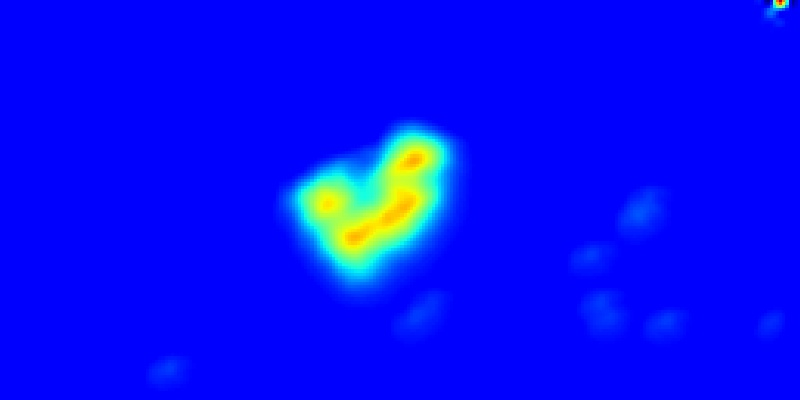
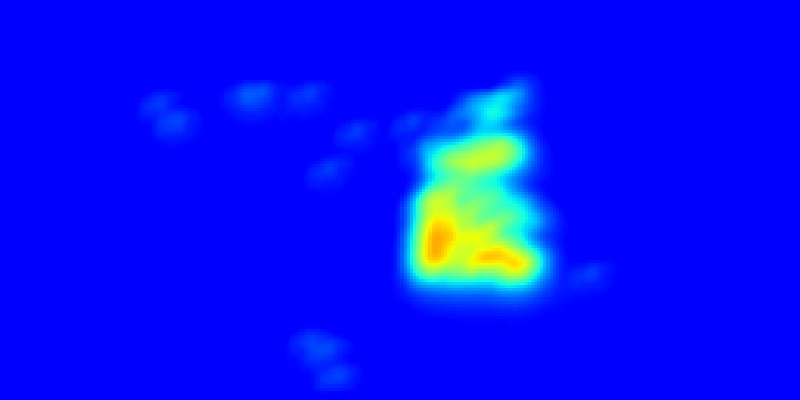
Agrega varios hilos para ejecución desde plotSensores.py
- Agrega hilo para comunicación, calculo de tiempos de exposición y
para calculo de promedios de presión por zonas

diff --git a/sensorFlexibleSQLiteDB/recvSensor1.py b/sensorFlexibleSQLiteDB/recvSensor1.py
@@ -1,13 +1,3 @@
-# -*- coding: utf-8 -*-
-
-# Form implementation generated from reading ui file 'rigidoBotonesConexion.ui'
-#
-# Created by: PyQt5 UI code generator 5.5.1
-#
-# WARNING! All changes made in this file will be lost!
-# para ejecutar el codigo python3 recvSensor1.py 192.168.0.108 10000 192.168.0.107 2233 1
-# Puerto 10000(cabeza), puerto 10001(piernas)
-
 import socket
 import sys
 import binascii
@@ -22,23 +12,15 @@ import tiemposDeExposicion
 import time
 import sqlite3
 from PIL import Image
+
 #ion()
-print( sys.argv[0])
-UDP_IP = sys.argv[1]
-UDP_PORT = int(sys.argv[2])
-
-UDP_IP_CLIENT = sys.argv[3]
-UDP_PORT_CLIENT = int(sys.argv[4])
-
-# Para esta version de la sabana, el sensor tiene dos modulos wifi, por tal razon se almacenan en bases de datos distintas su informacion id=1(cabeza), id=2(piernas)
-idSensor = sys.argv[5]
 
 maxint = 2 ** (struct.Struct('i').size * 8 - 1) - 1
 sys.setrecursionlimit(maxint)
 
 class Ui_MainWindow(object):
-    def __init__(self):
-        print("init")
+    def __init__(self, UDP_IP, UDP_PORT, UDP_IP_CLIENT, UDP_PORT_CLIENT, idSensor):
+        print("init", idSensor)
         self.vectorDatosDistribucionPresion = []
         self.vectorDesencriptado = []
         self.iniciaTramaDeDatos = False
@@ -46,34 +28,42 @@ class Ui_MainWindow(object):
         self.filas = 43;
         matriz = [[0 for x in range(self.columnas)] for x in range(self.filas)] 
         matriz[0][0] = 255
-        #self.cronometro = tiemposDeExposicion.Cronometro()
-        #self.interfazTiempos = interfazTiemposExposicionSensor1.interfazTiemposExposicion()
         self.angle = 0
-        self.contadorCalculaTiemposExposicion = 0
         self.contadorImagenes = 0
-        
-    def socketConnection(self):
-        
-        self.s = socket.socket(socket.AF_INET, socket.SOCK_DGRAM)
-        #self.s.settimeout(0.5)
-        #self.s.setsockopt(socket.IPPROTO_TCP, socket.TCP_NODELAY, 1)
-        #self.s.setsockopt(socket.SOL_SOCKET, socket.SO_REUSEADDR, 1)
+
         self.UDP_IP = UDP_IP
         self.UDP_PORT = UDP_PORT
 
         self.UDP_IP_CLIENT = UDP_IP_CLIENT
         self.UDP_PORT_CLIENT = UDP_PORT_CLIENT
 
+        # Para esta version de la sabana, el sensor tiene dos modulos wifi, por tal razon se almacenan en bases de datos distintas su informacion id=1(cabeza), id=2(piernas)
+        self.idSensor = idSensor  
+        self.conectarSensor()     
+        
+    def socketConnection(self):
+        
+        self.s = socket.socket(socket.AF_INET, socket.SOCK_DGRAM)
+
         print("escuchando",self.UDP_IP, self.UDP_PORT)
         self.s.bind((self.UDP_IP, self.UDP_PORT))
         #self.s.listen(1)
         self.campoSensor1Creado = False
-        #self.sc, self.addr = self.s.accept()
-        for i in range(3):            
-            time.sleep(1)
+
+        self.s.settimeout(1)
+        while True:            
+            time.sleep(2)
             self.s.sendto(bytes('*','utf-8'), (self.UDP_IP_CLIENT, self.UDP_PORT_CLIENT))
-            #self.sc.send(('*').encode())
-            print("conecto 1")
+            print("envia peticion", self.idSensor)
+            try:
+                buf = self.s.recv(10)
+                if(len(buf)>5):
+                    self.s.sendto(bytes('*','utf-8'), (self.UDP_IP_CLIENT, self.UDP_PORT_CLIENT))
+                    break
+            except:
+                print("Time out error")
+        print("conecto", self.idSensor)
+        self.s.settimeout(2)
         self.sqlDataBase()
         self.recibeDatos()
         
@@ -87,14 +77,14 @@ class Ui_MainWindow(object):
             # Create table
             self.c.execute('''CREATE TABLE IF NOT EXISTS sensorFlexible (id text, data real, connectionStatus text, angle text, exposureTimes real)''')
             # Insert a row of data
-            for row in self.c.execute("SELECT * FROM sensorFlexible WHERE '%s'" % idSensor):
+            for row in self.c.execute("SELECT * FROM sensorFlexible WHERE '%s'" % self.idSensor):
                 print(row[0])
-                if row[0] == idSensor:
+                if row[0] == self.idSensor:
                     self.campoSensor1Creado = True
 
             if self.campoSensor1Creado == False:
                 self.campoSensor1Creado = True
-                self.c.execute("INSERT INTO sensorFlexible VALUES ('%s','initValue sensor 1','True','0','initValue times 1')" % idSensor)
+                self.c.execute("INSERT INTO sensorFlexible VALUES ('%s','initValue sensor 1','True','0','initValue times 1')" % self.idSensor)
             self.conn.commit()
 
         except:
@@ -202,29 +192,10 @@ class Ui_MainWindow(object):
         
     def dibujarDistribucionPresion(self, matrizDistribucion, angle):
       
-##      for i in range(self.filas):
-##        for j in range(self.columnas):
-##          if matrizDistribucion[i][j] < 0:
-##              matrizDistribucion[i][j] = 0
-##          else:
-##              matrizDistribucion[i][j] = matrizDistribucion[i][j] + 20
-            
-##      for i in range(self.filas-1):
-##        for j in range(self.columnas-1):
-##            if i > 0 and j > 0:
-##                matrizDistribucion[i][j] = (matrizDistribucion[i+1][j] + matrizDistribucion[i-1][j] + matrizDistribucion[i][j-1] + matrizDistribucion[i][j+1])/8
-##
       maximoValor = 0
-
-
 
       hora = time.strftime("%H:%M:%S")
 
-      #self.contadorImagenes = self.contadorImagenes + 1
-      #self.c1.execute("INSERT INTO sensorFlexibleTransmision VALUES ('%s',  '%s', '%s', '%s')" % (self.contadorImagenes, matrizDistribucion,hora,angle))
-      #self.conn1.commit()
-      
-      
       for i in range(self.filas):
         for j in range(self.columnas):
             matrizDistribucion[i][j] = matrizDistribucion[i][j]*25
@@ -232,16 +203,8 @@ class Ui_MainWindow(object):
             if matrizDistribucion[i][j] > 200:
                 matrizDistribucion[i][j] = 240
 
-      self.c.execute("UPDATE `sensorFlexible` SET `data`= '%s', `angle`= '%s' WHERE `id`='%s'" % (matrizDistribucion, angle, idSensor))
+      self.c.execute("UPDATE `sensorFlexible` SET `data`= '%s', `angle`= '%s' WHERE `id`='%s'" % (matrizDistribucion, angle, self.idSensor))
       self.conn.commit()
-      #data = scipy.ndimage.zoom(matrizDistribucion, 1)
-      
-      self.contadorCalculaTiemposExposicion = self.contadorCalculaTiemposExposicion + 1
-      if self.contadorCalculaTiemposExposicion == 50:
-        self.contadorCalculaTiemposExposicion = 0
-        print("inserta datos X", idSensor, angle)
-        #self.interfazTiempos.evento(self.vectorDesencriptado)
-
 
 
     def conectarSensor(self):
@@ -267,4 +230,3 @@ if __name__ == "__main__":
     ui = Ui_MainWindow()
     ui.conectarSensor()
     #ui.recibeDatos()
-

diff --git a/sensorFlexibleSQLiteDB/interfazTiemposExposicionSensor1.py b/sensorFlexibleSQLiteDB/interfazTiemposExposicionSensor1.py
@@ -13,7 +13,6 @@ import ast
 import scipy.ndimage
 import time
 ion()
-idSensor = sys.argv[1]
 
 
 maxint = 2 ** (struct.Struct('i').size * 8 - 1) - 1
@@ -23,7 +22,7 @@ maxint = 2 ** (struct.Struct('i').size * 8 - 1) - 1
 
 class interfazTiemposExposicion:
 
-    def __init__(self):
+    def __init__(self, idSensor):
         self.tiempo = [['00:00:00','00:00:00','00:00:00'],['00:00:00','00:00:00','00:00:00'],['00:00:00','00:00:00','00:00:00']]
         self.zona = 0
 
@@ -49,6 +48,8 @@ class interfazTiemposExposicion:
         self.pressureRegionSensor2 = False
 
         self.campoTiemposExposicionCreado = False
+
+        self.idSensor = idSensor    
         #plt1.show(block=False)
         print('inicia tiempos')
         self.sqlDataBase()
@@ -64,27 +65,26 @@ class interfazTiemposExposicion:
         # Crea tabla para los tiempos de exposicion
         self.cTiempos.execute('''CREATE TABLE IF NOT EXISTS tiemposExposicion (id text, exposureTimes real)''')
         # Insert a row of data
-        for row in self.cTiempos.execute("SELECT * FROM tiemposExposicion WHERE '%s'" % idSensor):
-            print(row[0])
-            if row[0] == idSensor:
+        for row in self.cTiempos.execute("SELECT * FROM tiemposExposicion WHERE '%s'" % self.idSensor):
+            if row[0] == self.idSensor:
                 self.campoTiemposExposicionCreado = True
 
         if self.campoTiemposExposicionCreado == False:
             self.campoTiemposExposicionCreado = True
-            self.cTiempos.execute("INSERT INTO tiemposExposicion VALUES ('%s','initValue times 1')" % idSensor)
+            self.cTiempos.execute("INSERT INTO tiemposExposicion VALUES ('%s','initValue times 1')" % self.idSensor)
         self.connTiempos.commit()
 
     def evento(self):
         while True:
             try:
-                for row in self.c.execute("SELECT * FROM sensorFlexible WHERE `id`='%s'" % idSensor):
+                for row in self.c.execute("SELECT * FROM sensorFlexible WHERE `id`='%s'" % self.idSensor):
                     dataSensor1 = row[1]
 
 
                 #Sensor 1
                 matrizSensor1 = ast.literal_eval(str(dataSensor1))
 
-                if idSensor == 2:
+                if self.idSensor == 2:
                     matrizSensor1 = scipy.ndimage.rotate(matrizSensor1, -90)
 
                 matrizDistribucionPresion = matrizSensor1
@@ -102,10 +102,8 @@ class interfazTiemposExposicion:
                 #self.zonasActivas = zonasActivas
                 self.determineAreasOfGreaterPressure(matrizDistribucionPresion)
                 tiemposString = str(self.tiempo[0][0]) + "," + str(self.tiempo[0][1]) + "," + str(self.tiempo[0][2]) + "," + str(self.tiempo[1][0]) + "," + str(self.tiempo[1][1]) + "," + str(self.tiempo[1][2]) + "," + str(self.tiempo[2][0]) + "," + str(self.tiempo[2][1]) + "," + str(self.tiempo[2][2])
-                print("inserta datos")
-                self.cTiempos.execute("UPDATE `tiemposExposicion` SET `exposureTimes`= '%s' WHERE `id`='%s'" % (tiemposString, idSensor))
+                self.cTiempos.execute("UPDATE `tiemposExposicion` SET `exposureTimes`= '%s' WHERE `id`='%s'" % (tiemposString, self.idSensor))
                 self.connTiempos.commit()
-                print(self.tiempo[0][0],self.tiempo[0][1],self.tiempo[0][2],self.tiempo[1][0],self.tiempo[1][1],self.tiempo[2][0],self.tiempo[2][1],self.tiempo[2][2], "idSensor", idSensor)
                 time.sleep(0.5)
             except:
                 pass
@@ -247,5 +245,5 @@ class interfazTiemposExposicion:
             self.zona = 0
             
         return self.zonasActivas
-interfazTiemposExposicion()
+
 

diff --git a/sensorFlexibleSQLiteDB/plotSensores.py b/sensorFlexibleSQLiteDB/plotSensores.py
@@ -28,6 +28,10 @@ import time
 import os
 import sqlite3
 import ast
+import recvSensor1
+import interfazTiemposExposicionSensor1
+import graphicsRealTimeAverageSensor_1
+
 ion()
 
 
@@ -39,7 +43,7 @@ sys.setrecursionlimit(maxint)
 
 class Ui_MainWindow(object):
     def __init__(self):
-        print("init")
+
         #Socket connection
         self.ip = "192.168.0.124"
         self.port = 10005
@@ -77,7 +81,51 @@ class Ui_MainWindow(object):
 
         self.sqlDataBase()
         self.contadorImagenes = 0
-        #plt.gca().invert_yaxis()
+
+        # Sensor 1: cabeza
+        self.UDP_IP_Sensor1 = "192.168.0.124"
+        self.UDP_PORT_Sensor1 = 10000
+
+        self.UDP_IP_CLIENT_Sensor1 = "192.168.0.100"
+        self.UDP_PORT_CLIENT_Sensor1 = 2233
+
+        self.idSensor_Sensor1 = "1"
+
+
+        # Sensor 2: piernas
+        self.UDP_IP_Sensor2 = "192.168.0.124"
+        self.UDP_PORT_Sensor2 = 10001
+
+        self.UDP_IP_CLIENT_Sensor2 = "192.168.0.101"
+        self.UDP_PORT_CLIENT_Sensor2 = 2233
+
+        self.idSensor_Sensor2 = "2"
+        
+        # Comunicacion sensor 1
+        self.t = threading.Thread(target = recvSensor1.Ui_MainWindow, args=(self.UDP_IP_Sensor1, self.UDP_PORT_Sensor1, self.UDP_IP_CLIENT_Sensor1, self.UDP_PORT_CLIENT_Sensor1, self.idSensor_Sensor1,))
+        self.t.IsBackground = True;
+        self.t.start()
+
+        # Comunicacion sensor 2
+        self.s = threading.Thread(target = recvSensor1.Ui_MainWindow, args=(self.UDP_IP_Sensor2, self.UDP_PORT_Sensor2, self.UDP_IP_CLIENT_Sensor2, self.UDP_PORT_CLIENT_Sensor2, self.idSensor_Sensor2,))
+        self.s.IsBackground = True;
+        self.s.start()
+
+        # Interfaz tiempos de exposicion 1
+        self.u = threading.Thread(target = interfazTiemposExposicionSensor1.interfazTiemposExposicion, args=("1",))
+        self.u.IsBackground = True;
+        self.u.start()
+
+        # Interfaz tiempos de exposicion 2
+        self.v = threading.Thread(target = interfazTiemposExposicionSensor1.interfazTiemposExposicion, args=("2",))
+        self.v.IsBackground = True;
+        self.v.start()
+
+        # Calculo de promedios de presion por zonas
+        self.w = threading.Thread(target = graphicsRealTimeAverageSensor_1.Ui_MainWindow)
+        self.w.IsBackground = True;
+        self.w.start()
+
     def sqlDataBase(self):
         
         self.conn = sqlite3.connect('distribucionPresionSensorFlexible.db')
@@ -101,10 +149,10 @@ class Ui_MainWindow(object):
                 dataSensor1 = row[1]
             for row in self.c.execute("SELECT * FROM sensorFlexible WHERE `id`='2'"):
                 dataSensor2 = row[1]
-
+            
             #Sensor 1
             matrizSensor1 = ast.literal_eval(str(dataSensor1))
-
+            #matrizSensor1 = scipy.ndimage.rotate(matrizSensor1, 0)
 
             #Sensor 1
             matrizSensor2 = ast.literal_eval(str(dataSensor2))
@@ -117,6 +165,7 @@ class Ui_MainWindow(object):
             matrizSensor2 = scipy.ndimage.rotate(matrizSensor2, -90)
 
             matrizCompleta = np.concatenate((matrizSensor1,matrizSensor2), axis=1)
+            #matrizCompleta = matrizSensor1
             
             #self.conn1.commit()
             #matrizCompleta = matrizDistribucion
@@ -138,11 +187,9 @@ class Ui_MainWindow(object):
             self.figSensor1.canvas.draw()
             quality_val = 20
             self.figSensor1.savefig('sensor1.jpeg')
-
+            
         except:
             pass
-
-      
 
 if __name__ == "__main__":
 

diff --git a/sensorFlexibleSQLiteDB/graphicsRealTimeAverageSensor_1.py b/sensorFlexibleSQLiteDB/graphicsRealTimeAverageSensor_1.py
@@ -224,4 +224,4 @@ class Ui_MainWindow(object):
         img.save('historial_main.png')
         #plt.show()
         
-plotsInstance = Ui_MainWindow()
+#plotsInstance = Ui_MainWindow()
